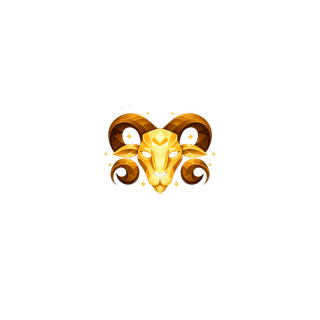
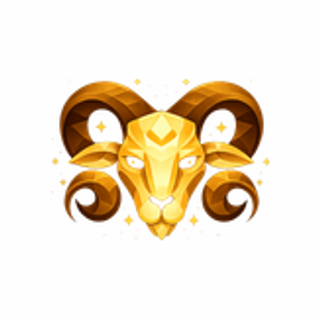
Fix rashi images not showing: add the WebP files the code points to
rashifalData.js pointed every rashi image at /zodiac/*.webp, but only PNG files
existed. The server answered those URLs with the homepage HTML, so no rashi
image showed on mobile or laptop. Added real WebP versions (256px, about 8 KB
each instead of about 100 KB), re-centred the Aries image, which was a small
ram in a mostly empty transparent frame, and added a version query so
browsers drop any cached bad response.

Changed region(s): [[0.1562, 0.25, 0.8438, 0.75]]

diff --git a/frontend/src/data/rashifalData.js b/frontend/src/data/rashifalData.js
@@ -5,18 +5,18 @@
 // Lahiri ayanamsa applied to all planets
 
 export const RASHIS = [
-  { id: 0,  name: 'मेष',     symbol: '♈', eng: 'Aries',       img: '/zodiac/aries.webp',       lord: 'मंगळ',  element: 'अग्नी',  color: '#E53935', bg: '#FFEBEE', luckyColor: 'लाल',    luckyNums: [1, 9],  stone: 'मूंगा',  dates: '२१ मार्च – २० एप्रिल'      },
-  { id: 1,  name: 'वृषभ',    symbol: '♉', eng: 'Taurus',      img: '/zodiac/taurus.webp',      lord: 'शुक्र',  element: 'पृथ्वी', color: '#43A047', bg: '#E8F5E9', luckyColor: 'हिरवा',  luckyNums: [2, 6],  stone: 'हिरा',   dates: '२१ एप्रिल – २० मे'          },
-  { id: 2,  name: 'मिथुन',   symbol: '♊', eng: 'Gemini',      img: '/zodiac/gemini.webp',      lord: 'बुध',   element: 'वायू',   color: '#FB8C00', bg: '#FFF3E0', luckyColor: 'पिवळा',  luckyNums: [3, 5],  stone: 'पाचू',   dates: '२१ मे – २० जून'             },
-  { id: 3,  name: 'कर्क',    symbol: '♋', eng: 'Cancer',      img: '/zodiac/cancer.webp',      lord: 'चंद्र', element: 'जल',    color: '#039BE5', bg: '#E1F5FE', luckyColor: 'पांढरा', luckyNums: [2, 7],  stone: 'मोती',   dates: '२१ जून – २२ जुलै'           },
-  { id: 4,  name: 'सिंह',    symbol: '♌', eng: 'Leo',         img: '/zodiac/leo.webp',         lord: 'सूर्य', element: 'अग्नी',  color: '#F9A825', bg: '#FFFDE7', luckyColor: 'सोनेरी', luckyNums: [1, 4],  stone: 'माणिक',  dates: '२३ जुलै – २२ ऑगस्ट'        },
-  { id: 5,  name: 'कन्या',   symbol: '♍', eng: 'Virgo',       img: '/zodiac/virgo.webp',       lord: 'बुध',   element: 'पृथ्वी', color: '#6D4C41', bg: '#EFEBE9', luckyColor: 'तपकिरी', luckyNums: [3, 6],  stone: 'पुखराज', dates: '२३ ऑगस्ट – २२ सप्टेंबर'    },
-  { id: 6,  name: 'तुला',    symbol: '♎', eng: 'Libra',       img: '/zodiac/libra.webp',       lord: 'शुक्र',  element: 'वायू',   color: '#8E24AA', bg: '#F3E5F5', luckyColor: 'गुलाबी', luckyNums: [6, 9],  stone: 'हिरा',   dates: '२३ सप्टेंबर – २२ ऑक्टोबर'   },
-  { id: 7,  name: 'वृश्चिक', symbol: '♏', eng: 'Scorpio',     img: '/zodiac/scorpio.webp',     lord: 'मंगळ',  element: 'जल',    color: '#B71C1C', bg: '#FFEBEE', luckyColor: 'मरून',   luckyNums: [8, 9],  stone: 'पोवळा',  dates: '२३ ऑक्टोबर – २१ नोव्हेंबर'  },
-  { id: 8,  name: 'धनु',     symbol: '♐', eng: 'Sagittarius', img: '/zodiac/sagittarius.webp', lord: 'गुरू',  element: 'अग्नी',  color: '#1565C0', bg: '#E3F2FD', luckyColor: 'निळा',   luckyNums: [3, 9],  stone: 'पुखराज', dates: '२२ नोव्हेंबर – २१ डिसेंबर'  },
-  { id: 9,  name: 'मकर',     symbol: '♑', eng: 'Capricorn',   img: '/zodiac/capricorn.webp',   lord: 'शनी',   element: 'पृथ्वी', color: '#37474F', bg: '#ECEFF1', luckyColor: 'काळा',   luckyNums: [8, 10], stone: 'नीलम',   dates: '२२ डिसेंबर – १९ जानेवारी'   },
-  { id: 10, name: 'कुंभ',    symbol: '♒', eng: 'Aquarius',    img: '/zodiac/aquarius.webp',    lord: 'शनी',   element: 'वायू',   color: '#00838F', bg: '#E0F7FA', luckyColor: 'आकाशी',  luckyNums: [4, 8],  stone: 'नीलम',   dates: '२० जानेवारी – १८ फेब्रुवारी' },
-  { id: 11, name: 'मीन',     symbol: '♓', eng: 'Pisces',      img: '/zodiac/pisces.webp',      lord: 'गुरू',  element: 'जल',    color: '#6A1B9A', bg: '#F3E5F5', luckyColor: 'जांभळा', luckyNums: [3, 7],  stone: 'पुखराज', dates: '१९ फेब्रुवारी – २० मार्च'   },
+  { id: 0,  name: 'मेष',     symbol: '♈', eng: 'Aries',       img: '/zodiac/aries.webp?v=3',       lord: 'मंगळ',  element: 'अग्नी',  color: '#E53935', bg: '#FFEBEE', luckyColor: 'लाल',    luckyNums: [1, 9],  stone: 'मूंगा',  dates: '२१ मार्च – २० एप्रिल'      },
+  { id: 1,  name: 'वृषभ',    symbol: '♉', eng: 'Taurus',      img: '/zodiac/taurus.webp?v=2',      lord: 'शुक्र',  element: 'पृथ्वी', color: '#43A047', bg: '#E8F5E9', luckyColor: 'हिरवा',  luckyNums: [2, 6],  stone: 'हिरा',   dates: '२१ एप्रिल – २० मे'          },
+  { id: 2,  name: 'मिथुन',   symbol: '♊', eng: 'Gemini',      img: '/zodiac/gemini.webp?v=2',      lord: 'बुध',   element: 'वायू',   color: '#FB8C00', bg: '#FFF3E0', luckyColor: 'पिवळा',  luckyNums: [3, 5],  stone: 'पाचू',   dates: '२१ मे – २० जून'             },
+  { id: 3,  name: 'कर्क',    symbol: '♋', eng: 'Cancer',      img: '/zodiac/cancer.webp?v=2',      lord: 'चंद्र', element: 'जल',    color: '#039BE5', bg: '#E1F5FE', luckyColor: 'पांढरा', luckyNums: [2, 7],  stone: 'मोती',   dates: '२१ जून – २२ जुलै'           },
+  { id: 4,  name: 'सिंह',    symbol: '♌', eng: 'Leo',         img: '/zodiac/leo.webp?v=2',         lord: 'सूर्य', element: 'अग्नी',  color: '#F9A825', bg: '#FFFDE7', luckyColor: 'सोनेरी', luckyNums: [1, 4],  stone: 'माणिक',  dates: '२३ जुलै – २२ ऑगस्ट'        },
+  { id: 5,  name: 'कन्या',   symbol: '♍', eng: 'Virgo',       img: '/zodiac/virgo.webp?v=2',       lord: 'बुध',   element: 'पृथ्वी', color: '#6D4C41', bg: '#EFEBE9', luckyColor: 'तपकिरी', luckyNums: [3, 6],  stone: 'पुखराज', dates: '२३ ऑगस्ट – २२ सप्टेंबर'    },
+  { id: 6,  name: 'तुला',    symbol: '♎', eng: 'Libra',       img: '/zodiac/libra.webp?v=2',       lord: 'शुक्र',  element: 'वायू',   color: '#8E24AA', bg: '#F3E5F5', luckyColor: 'गुलाबी', luckyNums: [6, 9],  stone: 'हिरा',   dates: '२३ सप्टेंबर – २२ ऑक्टोबर'   },
+  { id: 7,  name: 'वृश्चिक', symbol: '♏', eng: 'Scorpio',     img: '/zodiac/scorpio.webp?v=2',     lord: 'मंगळ',  element: 'जल',    color: '#B71C1C', bg: '#FFEBEE', luckyColor: 'मरून',   luckyNums: [8, 9],  stone: 'पोवळा',  dates: '२३ ऑक्टोबर – २१ नोव्हेंबर'  },
+  { id: 8,  name: 'धनु',     symbol: '♐', eng: 'Sagittarius', img: '/zodiac/sagittarius.webp?v=2', lord: 'गुरू',  element: 'अग्नी',  color: '#1565C0', bg: '#E3F2FD', luckyColor: 'निळा',   luckyNums: [3, 9],  stone: 'पुखराज', dates: '२२ नोव्हेंबर – २१ डिसेंबर'  },
+  { id: 9,  name: 'मकर',     symbol: '♑', eng: 'Capricorn',   img: '/zodiac/capricorn.webp?v=2',   lord: 'शनी',   element: 'पृथ्वी', color: '#37474F', bg: '#ECEFF1', luckyColor: 'काळा',   luckyNums: [8, 10], stone: 'नीलम',   dates: '२२ डिसेंबर – १९ जानेवारी'   },
+  { id: 10, name: 'कुंभ',    symbol: '♒', eng: 'Aquarius',    img: '/zodiac/aquarius.webp?v=2',    lord: 'शनी',   element: 'वायू',   color: '#00838F', bg: '#E0F7FA', luckyColor: 'आकाशी',  luckyNums: [4, 8],  stone: 'नीलम',   dates: '२० जानेवारी – १८ फेब्रुवारी' },
+  { id: 11, name: 'मीन',     symbol: '♓', eng: 'Pisces',      img: '/zodiac/pisces.webp?v=2',      lord: 'गुरू',  element: 'जल',    color: '#6A1B9A', bg: '#F3E5F5', luckyColor: 'जांभळा', luckyNums: [3, 7],  stone: 'पुखराज', dates: '१९ फेब्रुवारी – २० मार्च'   },
 ];
 
 // ─── Maths helpers ────────────────────────────────────────────────────────────
